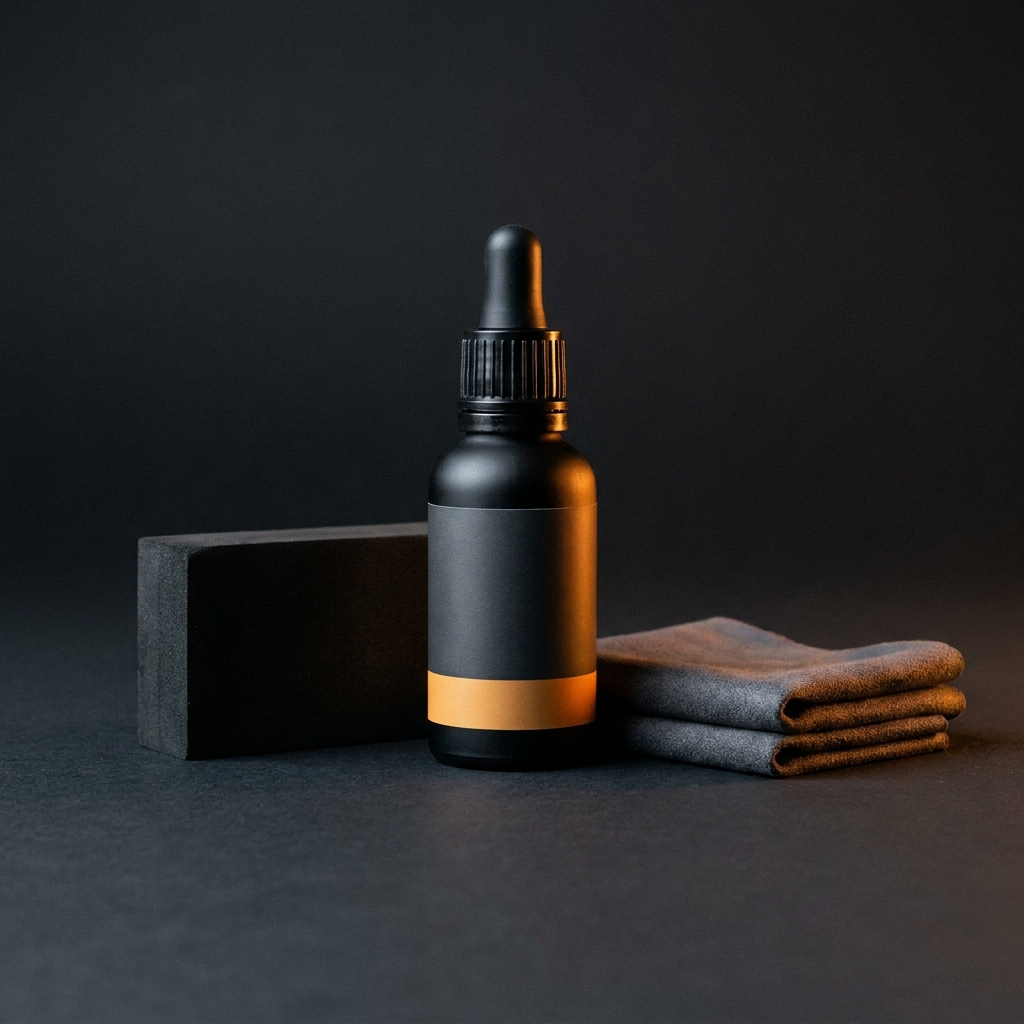
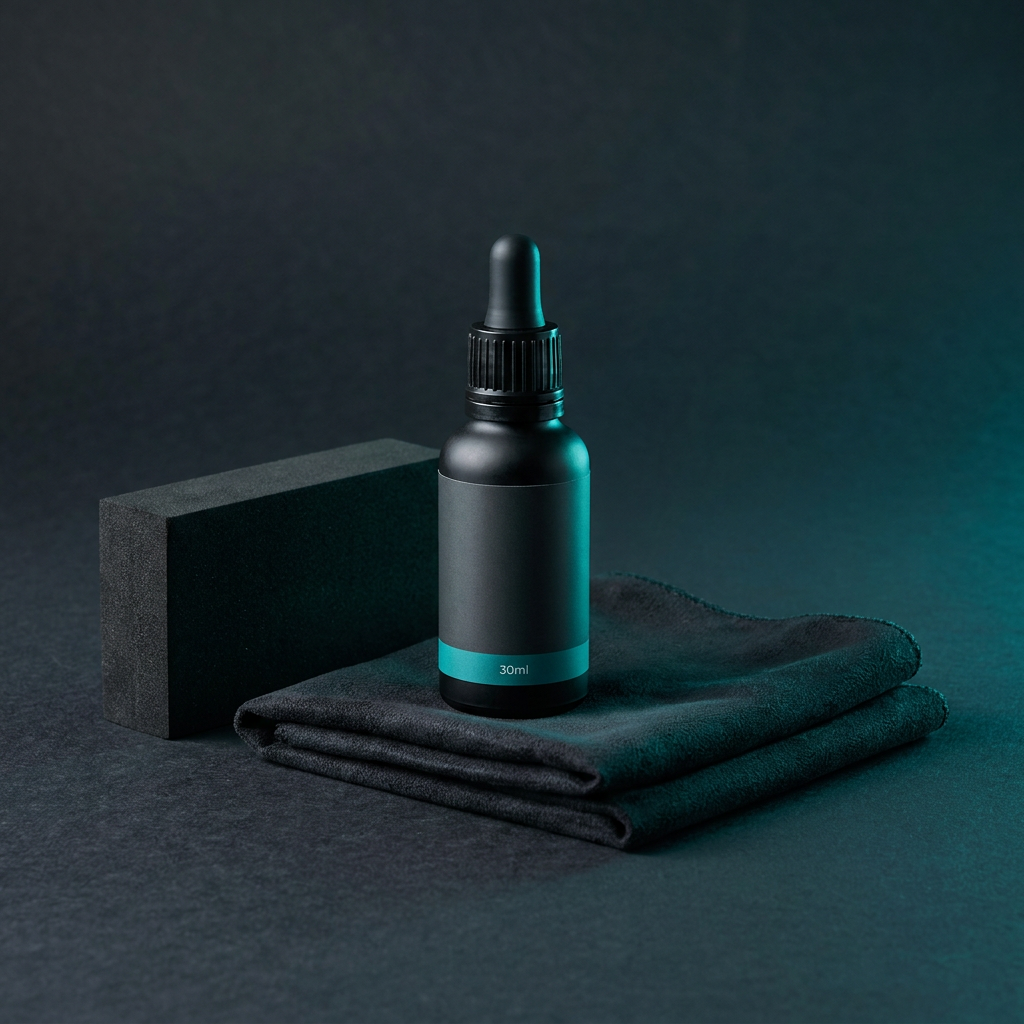
Brand update: swap palette to teal, rename to AutoCare, add tagline
Implements new brand direction from the official logo:

- Palette: amber (#d97706 / #fbbf24) replaced with teal (#14a3a8 /
  #22c8ce) site-wide. Updates :root tokens and all hardcoded rgba
  accent values (focus rings, hero stamp border, success state).
- Brand name: "Smart Auto Care Products" → "Smart AutoCare Products"
  in title, meta tags, Open Graph, Twitter card, JSON-LD schema, alt
  text, footer, brand block, and copyright (matches logo wordmark).
- Tagline: command-bar chip changes from "The Detailer's Supply
  Counter" to "Cleaner · Protect · Perform" — the brand mantra. The
  Supply Counter identity remains in the hero, footer, and schema.
- Product images: all 6 field-card photos regenerated with cool
  teal/cyan rim lighting to match the new brand palette (was warm
  amber). Hero supply-counter image kept (overhead workshop light).
- README.md: updated brand name and tagline.

Logo file (assets/logo.png) will be replaced in a follow-up commit
once the official wordmark PNG is saved locally.

diff --git a/index.html b/index.html
@@ -3,23 +3,23 @@
 <head>
 <meta charset="UTF-8">
 <meta name="viewport" content="width=device-width, initial-scale=1.0">
-<title>Smart Auto Care Products — The Detailer's Supply Counter</title>
+<title>Smart AutoCare Products — The Detailer's Supply Counter</title>
 <meta name="description" content="Auto care products that earn shelf space. Ceramic, polish, microfiber, interior care, wash tools, and bulk restock for car owners, mobile detailers, body shops, and resellers. Send us your supply list and we'll quote it.">
 <meta name="keywords" content="auto care products, detailing supplies, ceramic coating, cutting compound, microfiber towels, foam cannon, bulk detailing supplies, mobile detailer kit, body shop restock, reseller detailing bundles">
 <link rel="canonical" href="https://smartautocareproducts.com/">
 <link rel="icon" type="image/png" href="assets/logo.png">
 
 <!-- Open Graph -->
-<meta property="og:title" content="Smart Auto Care Products — The Detailer's Supply Counter">
+<meta property="og:title" content="Smart AutoCare Products — The Detailer's Supply Counter">
 <meta property="og:description" content="Auto care products that earn shelf space. Ceramic, polish, microfiber, interior care, wash tools, and bulk restock — built for people who actually work around cars.">
 <meta property="og:url" content="https://smartautocareproducts.com/">
 <meta property="og:type" content="website">
 <meta property="og:image" content="https://smartautocareproducts.com/assets/hero-supply-counter.png">
-<meta property="og:site_name" content="Smart Auto Care Products">
+<meta property="og:site_name" content="Smart AutoCare Products">
 
 <!-- Twitter Card -->
 <meta name="twitter:card" content="summary_large_image">
-<meta name="twitter:title" content="Smart Auto Care Products — The Detailer's Supply Counter">
+<meta name="twitter:title" content="Smart AutoCare Products — The Detailer's Supply Counter">
 <meta name="twitter:description" content="Auto care products that earn shelf space. Send us your supply list and we'll quote it.">
 <meta name="twitter:image" content="https://smartautocareproducts.com/assets/hero-supply-counter.png">
 
@@ -35,7 +35,7 @@
 {
   "@context": "https://schema.org",
   "@type": "Organization",
-  "name": "Smart Auto Care Products",
+  "name": "Smart AutoCare Products",
   "alternateName": "The Detailer's Supply Counter",
   "url": "https://smartautocareproducts.com",
   "logo": "https://smartautocareproducts.com/assets/logo.png",
@@ -47,7 +47,7 @@
 {
   "@context": "https://schema.org",
   "@type": "WebSite",
-  "name": "Smart Auto Care Products",
+  "name": "Smart AutoCare Products",
   "url": "https://smartautocareproducts.com",
   "potentialAction": {
     "@type": "SearchAction",
@@ -63,7 +63,7 @@
   "name": "9H Ceramic Coating Kit",
   "image": "https://smartautocareproducts.com/assets/product-ceramic-kit.png",
   "description": "Two-year hydrophobic ceramic coating kit. Includes prep panel wipe, applicator block, and microfiber suedes.",
-  "brand": { "@type": "Brand", "name": "Smart Auto Care Products" },
+  "brand": { "@type": "Brand", "name": "Smart AutoCare Products" },
   "offers": {
     "@type": "Offer",
     "priceCurrency": "USD",
@@ -110,9 +110,9 @@
   --bg: #ffffff;
   --muted: #6b6b6b;
   --muted-soft: #8a8a8a;
-  --accent: #d97706;
-  --accent-dark: #b45309;
-  --accent-bright: #fbbf24;
+  --accent: #14a3a8;
+  --accent-dark: #0f7a82;
+  --accent-bright: #22c8ce;
   --serif: 'Inter', -apple-system, BlinkMacSystemFont, 'Segoe UI', Roboto, sans-serif;
   --mono: 'JetBrains Mono', ui-monospace, SFMono-Regular, Menlo, Consolas, monospace;
   --container: 1240px;
@@ -269,12 +269,12 @@ section { padding: 5.5rem 0; }
   letter-spacing: 0.2em;
   text-transform: uppercase;
   color: var(--accent-bright);
-  border: 1px solid rgba(251,191,36,0.4);
+  border: 1px solid rgba(34,200,206,0.4);
   padding: 0.45rem 0.85rem;
   border-radius: 999px;
-  background: rgba(251,191,36,0.08);
+  background: rgba(34,200,206,0.08);
 }
-.hero-stamp .dot { width: 6px; height: 6px; border-radius: 50%; background: var(--accent-bright); box-shadow: 0 0 0 4px rgba(251,191,36,0.18); }
+.hero-stamp .dot { width: 6px; height: 6px; border-radius: 50%; background: var(--accent-bright); box-shadow: 0 0 0 4px rgba(34,200,206,0.18); }
 .hero h1 {
   font-size: clamp(2.4rem, 5.6vw, 4rem);
   font-weight: 800;
@@ -661,7 +661,7 @@ section { padding: 5.5rem 0; }
 .intake textarea:focus {
   outline: none;
   border-color: var(--accent);
-  box-shadow: 0 0 0 3px rgba(217,119,6,0.15);
+  box-shadow: 0 0 0 3px rgba(20,163,168,0.15);
 }
 .intake textarea { resize: vertical; min-height: 110px; }
 .checkbox-grid {
@@ -696,7 +696,7 @@ section { padding: 5.5rem 0; }
 }
 .intake-success {
   display: none;
-  background: rgba(217,119,6,0.08);
+  background: rgba(20,163,168,0.08);
   border: 1px solid var(--accent);
   border-radius: var(--radius);
   padding: 1rem;
@@ -924,11 +924,11 @@ footer {
 <header class="cmd-bar">
   <div class="wrap">
     <div class="row">
-      <a href="#" class="cmd-brand" aria-label="Smart Auto Care Products home">
-        <img src="assets/logo.png" alt="Smart Auto Care Products logo">
+      <a href="#" class="cmd-brand" aria-label="Smart AutoCare Products home">
+        <img src="assets/logo.png" alt="Smart AutoCare Products logo">
         <span class="cmd-brand-text">
-          <span class="name">Smart Auto Care Products</span>
-          <span class="tag">The Detailer's Supply Counter</span>
+          <span class="name">Smart AutoCare Products</span>
+          <span class="tag">Cleaner · Protect · Perform</span>
         </span>
       </a>
       <nav>
@@ -961,7 +961,7 @@ footer {
         <span class="hero-stamp"><span class="dot"></span> Field-Tested · Built For Real Jobs</span>
         <h1>The Detailer's <em>Supply Counter.</em></h1>
         <p class="hero-sub">
-          Smart Auto Care Products supplies ceramic coatings, compounds, microfiber, interior care, wash tools, and restock essentials for people who actually care about the finish — car owners, mobile detailers, body shops, and resellers.
+          Smart AutoCare Products supplies ceramic coatings, compounds, microfiber, interior care, wash tools, and restock essentials for people who actually care about the finish — car owners, mobile detailers, body shops, and resellers.
         </p>
         <div class="hero-actions">
           <a href="#loadout" class="btn btn-primary">Shop the Loadout</a>
@@ -1535,7 +1535,7 @@ footer {
     <div class="section-head">
       <span class="eyebrow">// Part of the Smart Brand Family</span>
       <h2 class="h2">A connected automotive ecosystem.</h2>
-      <p class="lead">Smart Auto Care Products supplies the chemistry and consumables. The rest of the family covers refinishing, detailing, cosmetic repair, and practical vehicle care.</p>
+      <p class="lead">Smart AutoCare Products supplies the chemistry and consumables. The rest of the family covers refinishing, detailing, cosmetic repair, and practical vehicle care.</p>
     </div>
 
     <div class="family-strip">
@@ -1619,7 +1619,7 @@ footer {
   <div class="wrap">
     <div class="foot-grid">
       <div class="foot-brand">
-        <img src="assets/logo.png" alt="Smart Auto Care Products">
+        <img src="assets/logo.png" alt="Smart AutoCare Products">
         <p>The Detailer's Supply Counter. Field-tested auto care products for car owners, mobile detailers, body shops, and resellers.</p>
         <div class="ctas">
           <a href="#bulk" class="btn btn-primary btn-sm">Send Supply List</a>
@@ -1667,7 +1667,7 @@ footer {
       </div>
     </div>
     <div class="foot-bottom">
-      <div>© 2026 Smart Auto Care Products · The Detailer's Supply Counter</div>
+      <div>© 2026 Smart AutoCare Products · The Detailer's Supply Counter</div>
       <div><a href="https://smartautocareproducts.com">smartautocareproducts.com</a> · <a href="mailto:hello@smartautocareproducts.com">hello@smartautocareproducts.com</a></div>
     </div>
   </div>

diff --git a/README.md b/README.md
@@ -1,5 +1,7 @@
-# Smart Auto Care Products
+# Smart AutoCare Products
+
+Cleaner. Protect. Perform.
 
 Live site: https://smartautocareproducts.com
 
-Premium detailing supplies, ceramic coatings, polishes, and interior care products curated by mobile auto-body professionals.
+The Detailer's Supply Counter — auto care products for car owners, mobile detailers, body shops, and resellers. Ceramic coatings, compounds, microfiber, interior care, wash tools, and bulk restock.
